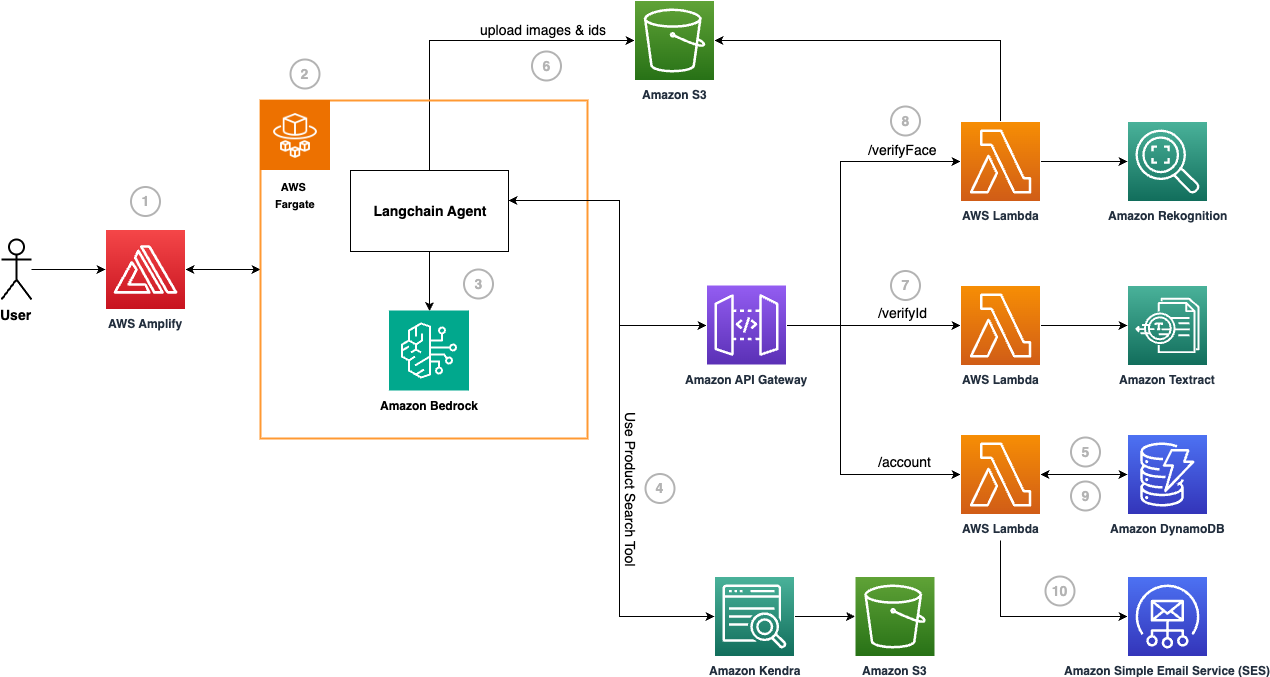
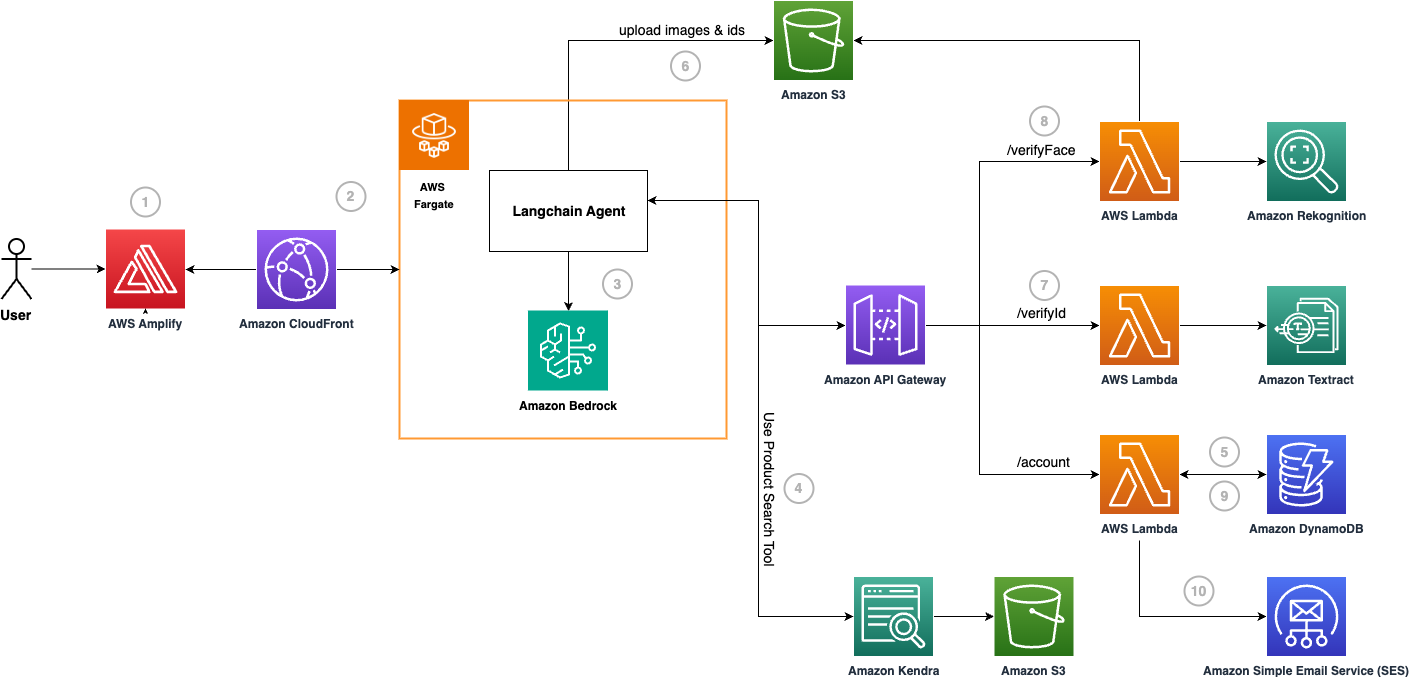
Some security improvements and fixes

diff --git a/infra/lib/infra-stack.ts b/infra/lib/infra-stack.ts
@@ -84,7 +84,7 @@ export class PennyInfraStack extends cdk.Stack {
 
   createLambda_verifyId = () => {
     this.verifyIdLambda = new lambda.Function(this, 'VerifyId', {
-      runtime: lambda.Runtime.PYTHON_3_8,
+      runtime: lambda.Runtime.PYTHON_3_11,
       code: lambda.Code.fromAsset('../api/lambdas'),
       handler: 'verify-id.main',
       timeout: Duration.seconds(10),
@@ -103,7 +103,7 @@ export class PennyInfraStack extends cdk.Stack {
 
   createLambda_verifyFace = () => {
     this.verifyFaceLambda = new lambda.Function(this, 'VerifyFace', {
-      runtime: lambda.Runtime.PYTHON_3_8,
+      runtime: lambda.Runtime.PYTHON_3_11,
       code: lambda.Code.fromAsset('../api/lambdas'),
       handler: 'verify-face.main',
       timeout: Duration.seconds(10),
@@ -115,15 +115,28 @@ export class PennyInfraStack extends cdk.Stack {
     this.verifyFaceLambda.addToRolePolicy(new iam.PolicyStatement(
       {
         effect: iam.Effect.ALLOW, 
-        actions: ['rekognition:CompareFaces', 's3:Get*', 's3:List*', 's3:Describe*'],
-        resources: ['*']
+        actions: ['s3:Get*', 's3:List*', 's3:Describe*'],
+        resources: [
+          `arn:aws:s3:::${this.idBucket.bucketName}`,
+          `arn:aws:s3:::${this.idBucket.bucketName}/*`
+        ]
+      }),
+    )
+
+    this.verifyFaceLambda.addToRolePolicy(new iam.PolicyStatement(
+      {
+        effect: iam.Effect.ALLOW, 
+        actions: ['rekognition:CompareFaces'],
+        resources: [
+          `*`,
+        ]
       }),
     )
   }
 
   createLambda_getAccount = () => {
     this.getAccountLambda = new lambda.Function(this, 'GetAccount', {
-      runtime: lambda.Runtime.PYTHON_3_8,
+      runtime: lambda.Runtime.PYTHON_3_11,
       code: lambda.Code.fromAsset('../api/lambdas'),
       handler: 'get-account.main',
       environment: {
@@ -142,7 +155,7 @@ export class PennyInfraStack extends cdk.Stack {
 
   createLambda_createAccount = () => {
     this.createAccountLambda = new lambda.Function(this, 'CreateAccount', {
-      runtime: lambda.Runtime.PYTHON_3_8,
+      runtime: lambda.Runtime.PYTHON_3_11,
       code: lambda.Code.fromAsset('../api/lambdas'),
       handler: 'create-account.main',
       environment: {
@@ -162,8 +175,10 @@ export class PennyInfraStack extends cdk.Stack {
     this.createAccountLambda.addToRolePolicy(new iam.PolicyStatement(
       {
         effect: iam.Effect.ALLOW, 
-        actions: ['ses:SendEmail'],
-        resources: ['*']
+        actions: ['ses:SendEmail', 'ses:SendRawEmail'],
+        resources: [
+          `arn:aws:ses:${this.region}:${this.account}:identity/*`,
+        ],
       }),
     )
   }
@@ -309,11 +324,40 @@ export class PennyInfraStack extends cdk.Stack {
       assumedBy: new iam.ServicePrincipal('kendra.amazonaws.com'),
     })
 
+    role.addToPolicy(new iam.PolicyStatement({
+      effect: iam.Effect.ALLOW,
+      actions: [
+        'cloudwatch:PutMetricData',
+      ],
+      resources: ['*'],
+      conditions: {
+        'StringEquals': {
+          'cloudwatch:namespace': 'AWS/Kendra'
+        }
+      }
+    }));
+
+    role.addToPolicy(new iam.PolicyStatement({
+      effect: iam.Effect.ALLOW,
+      actions: [
+        'logs:DescribeLogGroups',
+        'logs:CreateLogGroup',
+        'logs:PutLogEvents'
+      ],
+      resources: [
+        `arn:aws:logs:${this.region}:${this.account}:log-group:/aws/kendra/*`,
+        `arn:aws:logs:${this.region}:${this.account}:log-group:/aws/kendra/*:log-stream:*`
+      ]
+    }));
+
     role.addToPolicy(new iam.PolicyStatement(
       {
         effect: iam.Effect.ALLOW, 
-        actions: ['cloudwatch:PutMetricData', 'logs:DescribeLogGroups', 'logs:CreateLogGroup', 'logs:DescribeLogStreams', 'logs:CreateLogStream', 'logs:PutLogEvents', 's3:*'],
-        resources: ['*']
+        actions: ['s3:Get*', 's3:List*', 's3:Describe*'],
+        resources: [
+          `arn:aws:s3:::${this.catalogBucket.bucketName}`,
+          `arn:aws:s3:::${this.catalogBucket.bucketName}/*`
+        ]
       }),
     )
 
@@ -341,7 +385,8 @@ export class PennyInfraStack extends cdk.Stack {
   createLLM = () => {
     const vpc = new ec2.Vpc(this, 'LLMVpc', {
       subnetConfiguration: [
-        { subnetType: ec2.SubnetType.PUBLIC, cidrMask: 24, name: "public-" }
+        { subnetType: ec2.SubnetType.PUBLIC, cidrMask: 24, name: "public-" },
+        { subnetType: ec2.SubnetType.PRIVATE_WITH_EGRESS, cidrMask: 24, name: "private-" }
       ]
     })
 
@@ -349,7 +394,6 @@ export class PennyInfraStack extends cdk.Stack {
       vpc: vpc,
       allowAllOutbound: true
     })
-    sg.addIngressRule(ec2.Peer.anyIpv4(), ec2.Port.tcp(80));
 
     const cluster = new ecs.Cluster(this, "LLMCluster", {
       vpc: vpc
@@ -365,8 +409,20 @@ export class PennyInfraStack extends cdk.Stack {
 
     taskDefinition.addToTaskRolePolicy(new iam.PolicyStatement({
       effect: iam.Effect.ALLOW,
-      resources: ['*'],
-      actions: ['bedrock:InvokeModel', 's3:PutObject', 'kendra:Retrieve']
+      resources: ['*'], 
+      actions: ['bedrock:InvokeModel']
+    }));
+
+    taskDefinition.addToTaskRolePolicy(new iam.PolicyStatement({
+      effect: iam.Effect.ALLOW,
+      resources: [`${this.idBucket.bucketArn}/*`],
+      actions: ['s3:PutObject']
+    }));
+
+    taskDefinition.addToTaskRolePolicy(new iam.PolicyStatement({
+      effect: iam.Effect.ALLOW,
+      resources: [this.kendraIndex.attrArn],
+      actions: ['kendra:Retrieve']
     }));
 
     const container = taskDefinition.addContainer("LLMContainer", {
@@ -394,9 +450,9 @@ export class PennyInfraStack extends cdk.Stack {
     this.llmService = new ecs.FargateService(this, 'LLMFargateService', { 
       cluster: cluster,
       taskDefinition: taskDefinition,
-      assignPublicIp: true,
+      assignPublicIp: false,
       securityGroups: [sg],
-      serviceName: 'LLMFargateService'
+      serviceName: 'LLMFargateService',
     })    
 
     const lb = new elbv2.ApplicationLoadBalancer(this, 'PennyALB', {

diff --git a/penny-ui/src/components/chatPopupBody.jsx b/penny-ui/src/components/chatPopupBody.jsx
@@ -134,7 +134,7 @@ class ChatPopupBody extends React.Component  {
 
         var url = ""
 
-        url = this.props.llmApiEndpoint + 'uploadId'
+        url = this.props.llmApiEndpoint + 'uploadDoc'
 
         let docPennyChat = {
             user: 'Penny',

diff --git a/api/llm/app/penny/tools.py b/api/llm/app/penny/tools.py
@@ -3,7 +3,6 @@ from langchain.chains import RetrievalQA
 import boto3
 import json
 from langchain.agents import Tool
-from langchain.embeddings.sentence_transformer import SentenceTransformerEmbeddings
 from langchain_community.chat_models import BedrockChat
 from langchain_community.retrievers import AmazonKendraRetriever
 from pydantic import EmailStr, Field
@@ -11,11 +10,7 @@ from email_validator import validate_email, EmailNotValidError
 import requests
 import os
 
-#Bedrock client initialization
 bedrock = boto3.client(service_name='bedrock-runtime')
-#vector db init
-modeled = SentenceTransformerEmbeddings(model_name="all-mpnet-base-v2")
-
 API_ENDPOINT = os.environ["apiEndpoint"]
 
 def setup_knowledge_base():
@@ -23,7 +18,7 @@ def setup_knowledge_base():
     We assume that the product knowledge base is simply a text file.
     """
     llm = BedrockChat(
-        model_id='anthropic.claude-3-haiku-20240307-v1:0', 
+        model_id='anthropic.claude-3-5-sonnet-20240620-v1:0', 
         client=bedrock,
         model_kwargs={
             "temperature": 1,
@@ -133,7 +128,7 @@ class selfie_verification(BaseTool):
         }
         r = requests.post(url=url, json=body, timeout=300)
 
-        if r.json()["statusCode"] != 200:
+        if r.status_code != 200:
             return "Respond that our onboarding service is currently unavailable and to try again later."
 
         print(r.json())
@@ -142,18 +137,6 @@ class selfie_verification(BaseTool):
     def _arun(self, query: str):
         raise NotImplementedError("This tool does not support async")
     
-
-class ask_question(BaseTool):
-    name = "AskUser"
-    description = "Use this tool to ask something to the user. " \
-                    "It takes the question you want to ask as the input" \
-                  "It will return a question that you can ask"
-
-    def _run(self, question):
-        return "ask user " + question
-
-    def _arun(self, query: str):
-        raise NotImplementedError("This tool does not support async")
     
 class finish_onboarding(BaseTool):
     name = "SaveData"
@@ -193,14 +176,8 @@ def get_tools():
     # we only use one tool for now, but this is highly extensible!
     knowledge_base = setup_knowledge_base()
     tools = [
-        Tool(
-            name="ProductSearch",
-            func=knowledge_base.run,
-            description="useful for when you need to answer any question",
-        ),
-        #product_search
+        product_search(),
         email_validator(),
-        ask_question(),
         document_verification(),
         selfie_verification(),
         finish_onboarding()

diff --git a/api/lambdas/verify-id.py b/api/lambdas/verify-id.py
@@ -29,13 +29,10 @@ def extract_text(id_file_name):
                 if "ValueDetection" in str(key):
                     curr_val = str(val['Text'])
             id_field_values[curr_type] = curr_val
-            print(id_field_values)
 
-    print(id_field_values)
     return id_field_values
 
 def compare_fields(id_field_values, required_field_values):
-    
     for key, val in required_field_values.items():
         if not ((key in id_field_values) and (val.lower() == id_field_values[key].lower())):
             return "The details you provided for " + key + " do not match your ID"
@@ -52,16 +49,13 @@ def main(event, context):
         "Access-Control-Allow-Origin": "*",
         "Access-Control-Allow-Methods": "POST"
     }
+    body= ''
     
-    print(event)
-
     id_file_name = event["file_name"]
     required_field_values = event["required_field_values"]
 
     try:
         id_file_values = extract_text(id_file_name)
-        print("Extracted info:" + str(id_file_values))
-        
         body = compare_fields(id_file_values, required_field_values)
 
     except Exception as e:

diff --git a/api/lambdas/verify-face.py b/api/lambdas/verify-face.py
@@ -26,13 +26,6 @@ def compare_faces(id_file_name, selfie_file_name):
     for faceMatch in response['FaceMatches']:
         position = faceMatch['Face']['BoundingBox']
         similarity = str(faceMatch['Similarity'])
-        print('The face at ' +
-              str(position['Left']) + ' ' +
-              str(position['Top']) +
-              ' matches with ' + similarity + '% confidence')
-
-
-    print(response['FaceMatches'])
 
     return len(response['FaceMatches'])
 
@@ -47,13 +40,12 @@ def main(event, context):
         "Access-Control-Allow-Methods": "POST"
     }
     
-    print(event)
     id_file_name = event["id_file_name"]
     selfie_file_name = event["selfie_file_name"]
+    body = ''
 
     try:
         face_matches = compare_faces(id_file_name, selfie_file_name)
-        print("Compared faces:" + str(face_matches))
 
         if face_matches > 0: 
             body = 'Face match verified'

diff --git a/api/llm/app/main.py b/api/llm/app/main.py
@@ -35,10 +35,10 @@ config = dict(
     use_tools=True
 )
 llm = BedrockChat(
-        model_id='anthropic.claude-3-haiku-20240307-v1:0', 
+        model_id='anthropic.claude-3-5-sonnet-20240620-v1:0', 
         client=bedrock,
         model_kwargs={
-            "temperature": 0,
+            "temperature": 0.5,
             "top_k": 250,
             "top_p": 0.999,
             "stop_sequences": ["\\n\\nHuman:"]
@@ -61,7 +61,7 @@ async def question(request: Request) -> Response:
     response = agent.step()
     return JSONResponse(content={"message": response})
 
-@app.post("/uploadId")
+@app.post("/uploadDoc")
 async def id(file: UploadFile = File(...)) -> Response:
     try:
         contents = file.file.read()

diff --git a/README.md b/README.md
@@ -2,7 +2,7 @@
 
 In this repository, we present a solution that harnesses the power of Generative AI to streamline the user onboarding process for financial services through a digital assistant. Onboarding new customers in the banking is a crucial step in the customer journey, involving a series of activities designed to fulfill Know-Your-Customer (KYC) requirements, conduct necessary verifications, and introduce them to the bank's products or services. Traditionally, user onboarding has been a tedious and heavily manual process. Our solution provides practical guidance on addressing this challenge by leveraging a Generative AI assistant on AWS. 
 
-Amazon Bedrock is a fully managed service that offers a choice of high-performing foundation models (FMs) from leading AI companies like AI21 Labs, Anthropic, Cohere, Meta, Mistral AI, Stability AI, and Amazon via a single API, along with a broad set of capabilities you need to build generative AI applications with security, privacy, and responsible AI. Using Anthropic Claude 3 Haiku on Amazon Bedrock, we build a digital assistant that automates paperwork, identity verifications, and engages customers through conversational interactions, called Amazon Penny. As a result, customers can be onboarded in a matter of minutes through secure, automated workflows. 
+Amazon Bedrock is a fully managed service that offers a choice of high-performing foundation models (FMs) from leading AI companies like AI21 Labs, Anthropic, Cohere, Meta, Mistral AI, Stability AI, and Amazon via a single API, along with a broad set of capabilities you need to build generative AI applications with security, privacy, and responsible AI. Using Anthropic Claude 3.5 Sonnet on Amazon Bedrock, we build a digital assistant that automates paperwork, identity verifications, and engages customers through conversational interactions, called Amazon Penny. As a result, customers can be onboarded in a matter of minutes through secure, automated workflows. 
 
 ## Architecture
 
@@ -13,9 +13,9 @@ The flow of the application is as follows:
 
 1. Users access the front-end website hosted within the AWS Amplify. 
 
-2. The website invokes an endpoint to interact with the digital assistant, Penny, which is containerized and deployed in AWS Fargate. 
+2. The website invokes an Amazon CloudFront endpoint to interact with the digital assistant, Penny, which is containerized and deployed in AWS Fargate. 
 
-3. The digital assistant uses a custom Langchain Agent to answer questions on the bank's products and services and orchestrate the onboarding flow. The Large Language Model (LLM) used by the agent is Anthropic Claude 3 Haiku, provided by Amazon Bedrock. 
+3. The digital assistant uses a custom Langchain Agent to answer questions on the bank's products and services and orchestrate the onboarding flow. The Large Language Model (LLM) used by the agent is Anthropic Claude 3.5 Sonnet, provided by Amazon Bedrock. 
 
 4. If the user asks a general question related to the bank's products or services, the agent will utilize a custom Langchain Tool called the Product Search Tool. This tool uses Amazon Kendra linked with an S3 data source which contains the bank's data. 
 
@@ -41,7 +41,7 @@ Identify the AWS Account where you would like to deploy this solution and ensure
 * Install [NodeJS](https://nodejs.org/en) and [Docker](https://www.docker.com/). 
 
 In your chosen AWS Account, complete the following steps:
-* Ensure that the [Anthropic Claude 3 Haiku Model is enabled in Amazon Bedrock by adding model access](https://docs.aws.amazon.com/bedrock/latest/userguide/model-access.html#model-access-add).
+* Ensure that the [Anthropic Claude 3.5 Sonnet Model is enabled in Amazon Bedrock by adding model access](https://docs.aws.amazon.com/bedrock/latest/userguide/model-access.html#model-access-add).
 * Ensure that docker is running. This can be done by running the command `sudo docker info`. If Docker is running, information about Docker is displayed.
 
 > Note: Under a set of assumptions made on a monthly basis, running this workload would have an estimated hourly cost of around $1.34. Make sure to check the pricing details for each individual service to understand the costs you may be charged for different usage tiers and resource configurations
